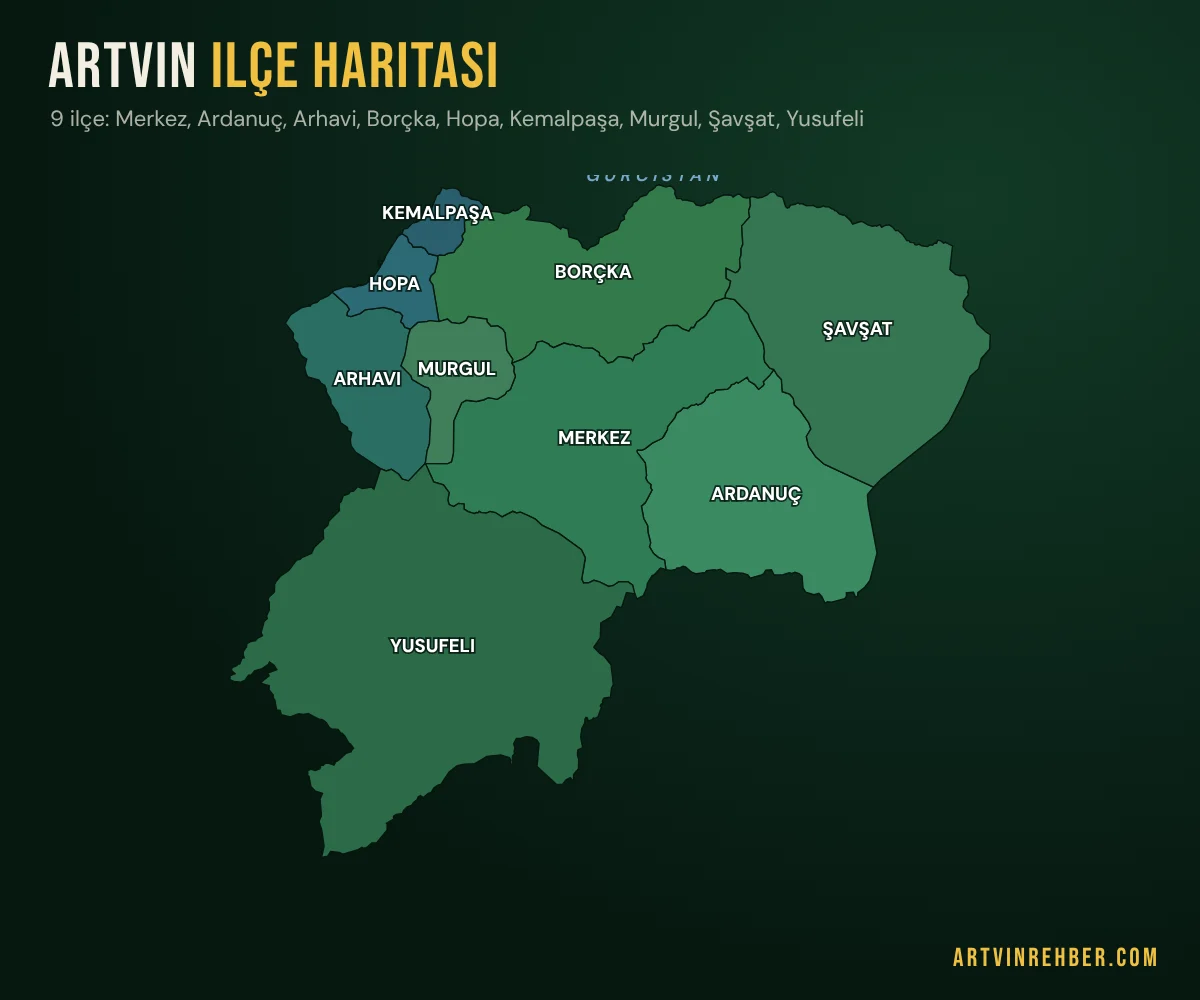
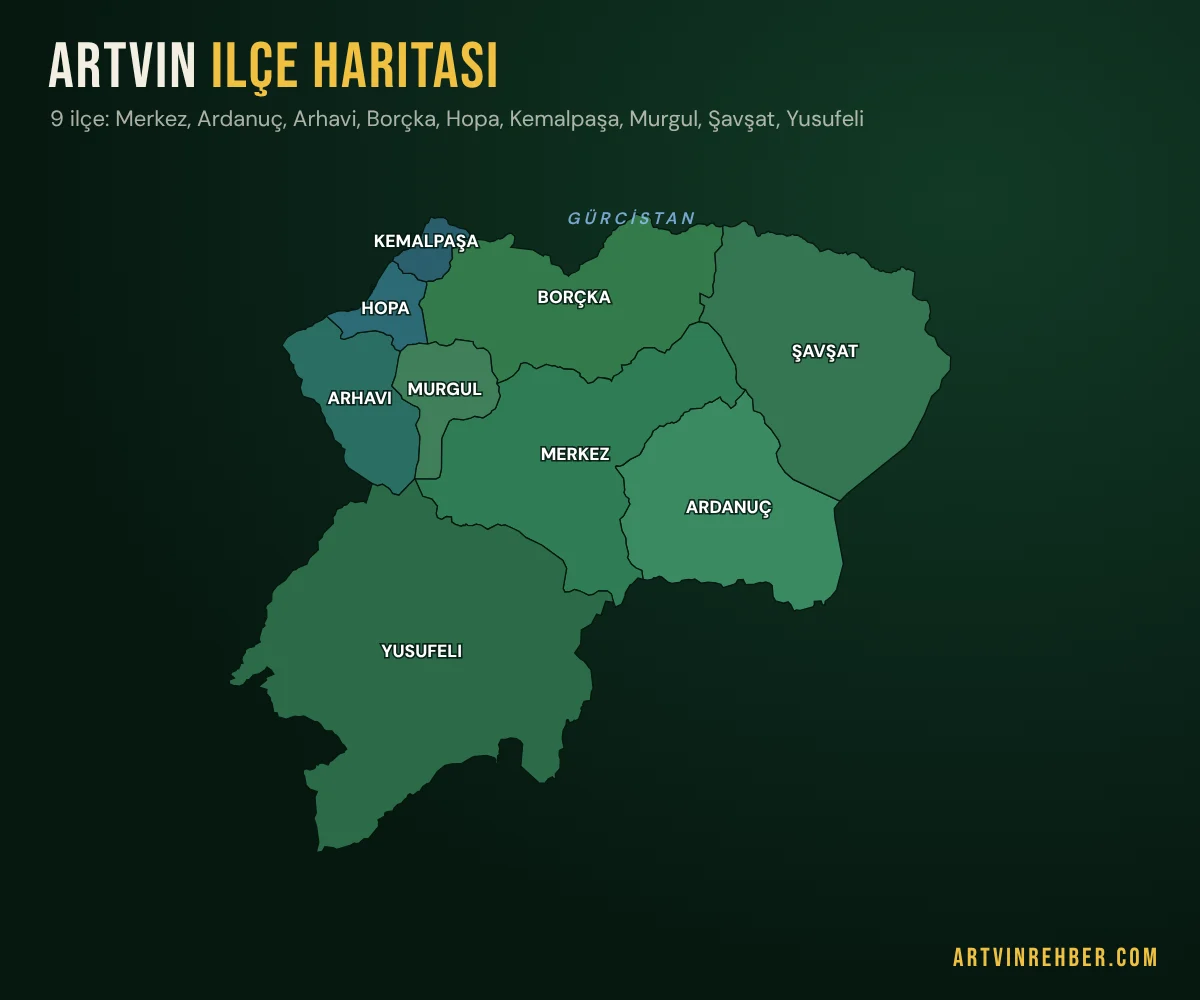
Ana sayfa Şehir Bilgileri: yeni ilçe haritası ve Türkiye'de Artvin görselleri (interaktif haritaya bağlantılı); ilçe haritasında Gürcistan yazısı düzeltildi
Claude-Session: https://claude.ai/code/session_01VwtmkZQx667P7d6nQgoY1q

diff --git a/artvin-harita.html b/artvin-harita.html
@@ -219,7 +219,7 @@ footer a{color:var(--altin)}
     <p class="alt">Artvin'in 9 ilçesi. Bir ilçeye dokun: nüfusu, merkeze uzaklığı, dolmuş ücreti ve gezilecek yerleri açılsın.</p>
     <div class="ilce-alan">
       <div>
-        <div class="ilce-svg"><svg viewBox="0 0 800 710" role="group" aria-label="Artvin ilçe haritası"><path d="M568.1,199.5 564.0,205.3 557.2,212.0 557.9,214.8 556.9,216.2 552.4,219.9 548.5,215.0 542.6,211.4 540.7,207.4 531.5,213.3 529.6,212.5 526.7,214.6 524.5,214.9 523.6,217.0 520.5,219.7 509.3,220.3 506.7,223.0 502.6,223.9 500.8,225.4 500.2,227.5 498.5,228.2 496.8,231.9 493.5,234.5 490.1,235.8 488.6,234.6 486.9,235.8 483.5,236.1 479.2,239.4 475.2,238.6 472.8,241.4 468.3,244.1 466.5,249.0 459.0,258.3 458.9,261.0 455.3,268.1 453.6,270.0 448.5,272.5 443.4,275.0 435.8,280.9 432.3,282.3 428.4,281.9 427.6,282.9 427.9,284.4 436.2,295.4 437.5,308.1 436.6,310.8 438.7,314.8 442.1,317.6 441.6,320.3 443.1,323.2 436.2,336.2 432.2,339.6 434.6,352.3 438.6,359.6 439.0,366.6 441.7,377.2 440.5,381.2 444.7,388.2 449.8,392.4 456.0,395.1 457.4,404.8 462.4,405.6 467.5,404.4 468.8,403.0 471.4,403.1 474.7,401.3 477.5,402.0 483.8,407.4 488.4,409.0 497.8,407.6 499.1,405.9 506.6,404.7 509.7,405.3 513.3,404.3 520.0,408.7 527.4,407.8 535.9,408.4 541.3,410.1 544.0,413.6 555.5,410.1 557.6,409.0 559.7,405.3 565.6,404.9 568.3,410.3 577.6,409.9 583.9,408.0 586.5,408.6 589.7,407.5 594.0,408.8 597.0,411.3 598.0,423.4 600.6,427.9 609.4,430.5 614.2,429.0 617.3,432.4 620.6,439.2 622.9,437.7 627.3,438.2 640.9,434.4 642.5,432.0 642.4,428.4 649.8,428.0 651.4,432.1 653.8,432.6 654.2,428.4 660.7,423.4 666.5,416.0 673.9,387.7 664.8,339.1 664.0,328.0 670.3,320.2 619.7,296.6 611.0,289.0 603.7,278.4 601.4,268.2 606.0,260.5 603.8,254.1 595.4,242.1 589.2,236.0 588.0,229.0 584.3,224.8 576.8,222.3 575.8,209.7 571.3,204.9 568.1,199.5Z" data-ad="Ardanuç" style="--f:#3b8a63" tabindex="0" role="button" aria-label="Ardanuç ilçesi"><title>Ardanuç</title></path><path d="M210.6,295.7 212.4,283.0 214.8,275.7 216.2,250.3 211.7,237.5 215.8,229.4 216.0,221.7 213.6,218.3 209.1,216.7 196.9,209.5 195.9,205.9 185.7,195.6 190.8,181.2 193.2,164.4 195.3,158.2 189.5,156.0 187.9,152.7 185.4,150.5 187.4,144.5 184.4,141.0 180.0,140.3 176.8,138.2 167.9,135.8 148.8,138.3 143.7,142.1 134.2,145.2 130.3,144.2 130.7,141.0 132.8,137.9 130.4,133.9 115.1,120.3 110.5,124.3 102.6,127.7 99.6,130.6 94.7,132.0 92.3,134.2 91.5,133.6 92.2,134.4 90.2,134.5 91.3,132.8 89.8,134.6 83.4,136.3 72.5,143.2 67.1,151.9 75.4,162.5 74.9,167.5 78.2,171.9 79.7,172.9 79.8,177.3 79.1,178.6 80.5,178.1 82.5,183.4 84.8,186.3 89.0,188.7 86.8,197.5 88.6,204.5 90.2,207.0 101.6,210.4 103.5,213.4 107.5,215.9 109.2,220.4 109.0,222.5 113.5,230.5 113.9,234.6 120.8,244.4 123.8,254.2 130.7,259.0 131.4,262.1 135.1,264.2 133.7,271.6 134.5,277.7 139.0,284.2 164.6,301.2 170.5,303.5 175.7,301.8 183.1,306.7 186.9,312.0 193.4,313.7 210.6,295.7Z" data-ad="Arhavi" style="--f:#2a6f63" tabindex="0" role="button" aria-label="Arhavi ilçesi"><title>Arhavi</title></path><path d="M446.3,12.6 443.8,14.9 440.2,16.6 437.5,20.5 431.2,22.3 427.5,26.6 423.8,28.0 423.1,31.4 418.2,35.3 416.2,39.4 413.7,42.0 414.7,42.8 414.8,45.5 411.1,47.7 407.7,55.8 394.3,61.8 391.9,63.8 389.3,64.2 388.1,70.0 383.8,72.7 379.8,73.9 376.6,77.0 375.8,75.7 371.9,74.4 370.4,70.2 367.1,66.2 358.2,63.6 356.8,55.1 350.9,53.4 349.5,55.4 338.5,48.5 314.3,45.7 317.7,41.7 318.8,35.4 318.3,33.5 314.7,30.4 310.6,31.6 305.5,35.8 302.7,36.9 300.7,36.2 296.7,38.9 291.6,39.9 286.3,37.9 275.3,37.0 272.6,35.3 271.5,33.0 267.7,36.9 264.6,36.5 260.3,39.2 258.0,43.6 250.6,47.3 251.0,58.2 248.0,62.4 249.3,66.2 246.9,71.1 241.8,76.0 239.8,79.3 234.2,80.1 230.1,82.4 225.3,82.1 223.2,83.0 223.4,86.6 220.3,100.0 216.4,103.3 214.9,107.8 218.3,112.8 224.6,150.4 233.3,147.8 237.5,151.3 245.1,152.4 249.3,151.3 252.3,149.2 254.7,145.2 273.6,147.8 274.0,150.8 277.9,155.2 285.0,154.8 290.0,158.2 292.3,162.0 294.2,180.0 300.2,188.8 299.1,193.2 310.3,188.8 317.0,184.7 323.0,178.4 325.2,171.7 330.6,170.4 337.2,173.5 338.3,175.1 342.1,177.1 352.9,172.4 359.2,174.1 361.7,173.7 365.5,175.8 367.7,175.1 371.7,177.3 382.0,177.7 389.1,182.1 389.2,185.3 393.4,187.7 397.9,193.1 403.2,191.5 408.6,186.4 418.0,187.2 421.6,188.4 423.3,190.6 425.6,185.1 430.3,183.0 435.4,178.9 434.1,173.2 438.7,173.0 444.3,171.3 444.7,168.7 448.2,166.1 451.9,158.7 456.0,156.0 458.4,154.5 469.4,154.2 474.3,157.8 481.0,160.2 483.3,156.4 485.9,156.6 489.0,151.0 498.2,144.1 507.7,129.9 518.3,126.1 518.4,122.3 522.3,115.3 523.8,108.9 519.2,106.0 519.1,95.7 528.5,100.3 531.2,98.9 533.6,95.0 532.9,86.4 534.4,82.0 534.5,75.5 536.2,71.1 535.1,52.2 543.2,43.0 542.1,36.9 544.0,31.4 543.5,23.2 539.9,23.7 536.3,22.8 533.2,19.7 530.8,19.6 526.3,22.6 524.4,20.8 517.1,20.3 506.6,24.8 505.5,26.9 502.6,28.7 499.2,28.7 497.7,30.5 493.3,31.8 488.3,30.7 486.0,27.5 477.9,25.7 474.2,25.8 473.1,24.3 468.5,24.1 466.4,19.1 466.7,15.6 463.3,11.8 460.7,11.4 457.1,12.4 450.7,10.0 447.4,10.9 446.3,12.6Z" data-ad="Borçka" style="--f:#347a4b" tabindex="0" role="button" aria-label="Borçka ilçesi"><title>Borçka</title></path><path d="M170.7,81.6 168.2,87.5 167.4,88.4 164.8,87.8 167.0,89.1 166.1,91.2 164.5,91.0 165.3,91.9 164.4,94.3 163.6,93.5 164.5,92.1 163.5,91.2 163.4,93.1 162.0,90.6 164.5,84.2 161.8,90.8 163.7,95.3 157.7,104.1 149.7,112.0 148.7,112.2 149.0,111.5 148.2,112.5 144.8,113.5 144.2,112.2 144.4,113.2 142.6,113.7 141.7,113.6 142.1,112.3 144.9,111.2 142.4,111.8 141.4,114.0 137.9,115.2 136.0,114.8 136.5,114.1 127.3,114.8 117.6,118.2 115.2,119.9 130.4,133.9 132.8,137.9 130.7,141.0 130.3,144.2 134.2,145.2 143.7,142.1 148.8,138.3 167.9,135.8 176.8,138.2 180.0,140.3 184.4,141.0 187.4,144.5 185.4,150.5 187.9,152.7 189.5,156.0 195.3,158.2 203.0,151.2 212.2,150.4 214.8,149.4 224.6,150.4 218.3,112.8 214.9,107.8 216.4,103.3 220.3,100.0 223.4,86.6 223.2,83.0 214.0,80.8 210.2,75.5 206.5,73.9 198.0,73.8 196.7,71.1 193.5,68.6 192.4,63.8 186.7,60.3 182.4,63.1 170.7,81.6Z" data-ad="Hopa" style="--f:#2c6a75" tabindex="0" role="button" aria-label="Hopa ilçesi"><title>Hopa</title></path><path d="M235.9,13.5 232.0,14.5 227.8,12.8 225.3,19.0 222.3,20.7 216.9,34.8 214.3,40.1 213.2,40.5 213.6,39.3 211.0,41.8 207.9,43.1 203.8,47.7 199.6,48.9 198.8,48.3 192.2,54.5 188.2,55.6 186.7,60.3 192.4,63.8 193.5,68.6 196.7,71.1 198.0,73.8 206.5,73.9 210.2,75.5 214.0,80.8 223.2,83.0 225.3,82.1 230.1,82.4 234.2,80.1 239.8,79.3 241.8,76.0 246.9,71.1 249.3,66.2 248.0,62.4 251.0,58.2 250.6,47.3 258.0,43.6 260.3,39.2 264.6,36.5 267.7,36.9 271.5,33.0 266.0,26.3 257.5,24.6 254.3,22.5 248.3,21.3 246.8,19.9 246.1,16.6 243.5,14.4 241.1,13.4 235.9,13.5Z" data-ad="Kemalpaşa" style="--f:#2a5f6e" tabindex="0" role="button" aria-label="Kemalpaşa ilçesi"><title>Kemalpaşa</title></path><path d="M468.2,244.3 472.8,241.4 475.2,238.6 479.2,239.4 483.5,236.1 486.9,235.8 488.6,234.6 490.1,235.8 493.5,234.5 496.8,231.9 498.5,228.2 500.5,227.1 500.8,225.4 502.6,223.9 506.7,223.0 508.7,220.5 520.5,219.7 523.6,217.0 524.5,214.9 526.7,214.6 529.6,212.5 531.5,213.3 540.7,207.4 542.6,211.4 548.5,215.0 552.4,219.9 556.9,216.2 557.9,214.8 557.2,212.0 564.0,205.3 568.1,199.5 563.9,198.1 558.7,191.8 557.9,186.9 558.4,180.5 557.2,173.0 543.4,147.9 541.8,142.7 527.9,127.9 518.3,126.1 507.7,129.9 498.2,144.1 489.0,151.0 485.9,156.6 483.3,156.4 481.0,160.2 474.3,157.8 469.4,154.2 458.4,154.5 451.9,158.7 448.2,166.1 444.7,168.7 444.3,171.3 438.7,173.0 434.1,173.2 435.4,178.9 430.3,183.0 425.6,185.1 423.3,190.6 421.6,188.4 411.5,186.6 408.6,186.4 403.2,191.5 397.9,193.1 393.4,187.7 389.2,185.3 389.1,182.1 382.0,177.7 371.7,177.3 367.7,175.1 365.5,175.8 361.7,173.7 359.2,174.1 352.9,172.4 342.1,177.1 338.3,175.1 337.2,173.5 330.6,170.4 328.4,170.6 325.2,171.7 323.0,178.4 317.0,184.7 310.3,188.8 299.1,193.2 301.7,196.5 301.3,201.6 303.0,206.4 297.8,220.0 293.9,222.3 292.6,225.0 284.4,230.1 275.2,228.4 270.7,230.5 263.0,232.3 252.5,231.0 247.8,233.8 239.7,252.4 239.4,285.2 237.4,294.1 233.5,296.0 210.6,295.7 219.2,314.9 229.2,317.9 235.0,325.7 233.7,333.5 235.0,338.0 239.6,340.1 244.7,336.8 250.3,337.5 250.4,342.6 254.5,345.2 261.0,347.3 262.8,346.2 264.9,346.5 265.8,345.1 268.0,346.3 273.3,346.7 277.0,345.1 282.3,346.2 289.3,350.7 300.3,345.0 304.1,346.6 308.1,345.8 323.5,353.0 330.5,359.4 347.7,367.6 370.7,384.2 374.7,392.7 371.0,414.5 372.9,418.4 378.1,418.2 383.4,415.7 389.2,417.3 398.7,422.0 403.5,421.0 409.2,417.1 418.7,417.3 423.2,420.6 424.8,427.9 427.7,434.8 434.2,431.3 437.9,422.8 438.2,419.3 443.2,410.9 445.5,409.9 451.8,403.1 457.4,404.8 456.0,395.1 449.8,392.4 444.7,388.2 440.5,381.2 441.7,377.2 439.0,366.6 438.6,359.6 434.6,352.3 432.2,339.6 436.2,336.2 443.1,323.2 441.6,320.3 442.1,317.6 438.7,314.8 436.6,310.8 437.5,308.1 436.2,295.4 427.9,284.4 427.6,282.9 428.4,281.9 432.3,282.3 435.8,280.9 443.4,275.0 453.6,270.0 458.9,261.0 459.0,258.3 466.5,249.0 468.2,244.3Z" data-ad="Merkez" style="--f:#2f7d55" tabindex="0" role="button" aria-label="Merkez ilçesi"><title>Merkez</title></path><path d="M299.1,193.2 300.2,188.8 294.2,180.0 292.3,162.0 290.0,158.2 285.0,154.8 277.9,155.2 274.0,150.8 273.6,147.8 254.7,145.2 252.3,149.2 249.3,151.3 245.1,152.4 237.5,151.3 233.3,147.8 224.6,150.4 214.8,149.4 212.2,150.4 203.0,151.2 195.3,158.2 193.2,164.4 189.6,185.3 185.7,195.6 195.9,205.9 196.9,209.5 209.1,216.7 213.6,218.3 216.0,221.7 215.8,229.4 211.7,237.5 216.2,250.3 214.8,275.7 212.4,283.0 210.6,295.7 233.5,296.0 237.4,294.1 239.4,285.2 239.7,252.4 247.8,233.8 252.5,231.0 263.0,232.3 270.7,230.5 275.2,228.4 284.4,230.1 292.6,225.0 293.9,222.3 297.8,220.0 303.0,206.4 301.3,201.6 301.7,196.5 299.1,193.2Z" data-ad="Murgul" style="--f:#3f7f5a" tabindex="0" role="button" aria-label="Murgul ilçesi"><title>Murgul</title></path><path d="M400.5,535.5 401.5,526.5 403.4,522.6 401.1,502.4 394.0,493.6 389.2,490.4 383.4,484.3 390.0,474.7 390.6,459.3 401.6,453.0 407.2,442.3 411.9,443.8 416.9,428.3 425.5,429.7 423.2,420.6 418.7,417.3 409.2,417.1 403.5,421.0 398.7,422.0 389.2,417.3 383.4,415.7 378.1,418.2 372.9,418.4 371.0,414.5 374.7,392.7 370.7,384.2 347.7,367.6 330.5,359.4 323.5,353.0 316.9,349.7 308.1,345.8 304.1,346.6 300.3,345.0 289.3,350.7 282.3,346.2 277.0,345.1 273.3,346.7 268.0,346.3 265.8,345.1 264.9,346.5 262.8,346.2 261.0,347.3 254.5,345.2 250.4,342.6 250.3,337.5 244.7,336.8 239.6,340.1 235.0,338.0 233.7,333.5 235.0,325.7 229.2,317.9 219.2,314.9 210.6,295.7 193.4,313.7 186.9,312.0 183.1,306.7 175.7,301.8 170.5,303.5 164.6,301.2 157.9,322.2 155.2,320.2 146.4,321.7 140.9,319.7 137.0,324.2 133.8,324.7 131.9,327.0 126.3,329.2 124.3,335.1 122.1,337.0 122.6,344.1 111.7,354.9 110.7,359.0 105.8,363.6 106.3,372.8 96.8,381.7 93.8,388.3 84.3,392.1 82.0,394.3 78.6,394.9 70.5,405.7 61.9,411.5 57.6,416.9 56.0,420.1 55.9,427.7 50.1,433.0 49.3,435.9 50.5,437.9 50.6,446.0 47.8,452.2 48.6,455.0 45.3,457.7 42.2,469.4 43.6,472.5 38.0,475.4 36.6,477.6 31.1,478.6 27.6,480.7 27.3,483.9 24.1,488.5 23.7,491.8 24.9,495.2 21.7,495.9 22.2,496.8 20.3,501.5 18.7,501.3 17.4,503.1 12.6,505.2 11.5,507.9 15.6,511.5 10.4,513.4 10.0,517.5 14.3,519.3 21.0,520.1 25.6,518.3 29.2,513.1 31.7,513.1 35.8,508.2 42.9,506.5 49.2,502.1 50.8,499.4 55.5,502.8 58.3,507.3 49.1,510.9 50.4,513.7 42.1,520.2 43.3,521.6 50.7,523.8 50.2,527.9 54.6,533.3 54.5,535.9 56.3,538.7 58.1,548.6 61.8,549.1 62.9,553.5 72.0,555.9 80.7,552.5 85.8,553.3 90.5,552.3 101.7,558.2 105.2,558.6 109.1,561.7 112.2,566.7 114.3,568.2 121.0,568.6 123.8,572.3 125.5,572.7 128.5,576.0 131.9,582.5 134.0,583.7 137.0,588.2 134.6,590.4 134.5,591.6 129.1,593.3 121.1,600.8 118.8,601.7 116.9,605.3 110.9,603.1 107.4,603.7 105.9,605.4 102.9,605.1 103.3,607.1 102.2,609.2 97.4,610.9 93.4,609.4 90.1,611.0 90.0,615.9 91.3,616.7 93.2,627.1 97.3,631.6 105.2,634.2 102.7,640.1 104.1,657.4 101.5,662.7 104.4,671.7 106.8,688.9 104.1,699.9 110.4,698.7 113.4,693.8 122.3,694.7 126.1,696.5 140.7,692.3 145.4,689.6 146.7,690.4 150.1,689.9 155.8,685.0 160.8,684.7 171.3,672.0 171.5,666.2 170.7,664.8 178.1,660.5 177.9,657.5 181.0,655.7 187.0,654.9 188.3,651.8 192.0,648.1 196.5,646.5 198.6,643.4 202.1,640.7 203.2,637.8 205.6,636.5 208.5,638.5 213.9,634.1 216.2,633.6 219.3,628.7 223.4,625.8 226.5,625.0 235.0,612.3 243.3,605.8 250.6,604.3 261.4,603.7 273.8,596.4 288.0,594.9 296.8,597.5 298.3,600.0 297.7,602.4 298.9,604.6 299.9,604.3 300.0,595.8 302.2,593.4 301.6,591.3 302.5,587.8 301.2,583.4 304.0,577.8 309.0,577.7 314.0,576.2 320.4,576.8 325.0,579.8 327.2,582.9 325.2,606.6 345.0,624.9 351.3,625.0 354.7,620.6 359.2,618.1 362.6,621.9 362.6,614.9 367.5,609.3 367.9,599.2 366.5,594.9 367.0,589.7 372.0,587.2 369.9,577.0 371.0,567.9 374.2,561.9 374.4,557.9 375.3,556.3 376.5,556.5 377.8,559.8 381.7,558.5 382.9,556.8 384.0,557.6 387.7,555.7 391.2,545.9 390.1,544.7 390.7,542.9 392.5,541.7 392.2,539.7 393.6,536.5 400.5,535.5Z" data-ad="Yusufeli" style="--f:#2b6b47" tabindex="0" role="button" aria-label="Yusufeli ilçesi"><title>Yusufeli</title></path><path d="M768.2,115.6 767.0,107.5 763.9,102.8 758.9,103.3 754.2,101.9 748.6,96.8 751.3,72.7 744.0,69.1 742.2,69.9 739.0,67.4 736.2,66.7 734.9,70.1 732.9,69.7 730.8,72.0 728.2,71.5 725.9,73.4 719.6,72.6 716.9,70.9 714.7,71.8 712.6,71.4 711.7,69.4 707.8,69.1 707.0,67.5 704.5,67.2 700.1,60.9 695.3,56.8 692.8,57.0 689.8,53.4 686.4,51.2 682.3,51.7 678.6,53.8 676.6,50.6 673.5,52.6 672.5,51.8 669.3,52.6 664.5,51.1 659.0,47.8 657.0,47.7 648.8,50.4 646.7,46.8 640.1,40.6 639.1,41.2 635.1,40.0 631.9,36.8 630.4,36.6 629.4,34.9 627.3,34.6 624.8,32.7 620.8,32.7 619.0,31.6 616.1,33.0 612.8,33.5 608.0,31.2 601.9,31.6 596.6,29.4 594.6,29.8 593.0,28.4 589.4,30.3 585.2,30.8 583.7,33.3 582.0,34.0 580.1,32.3 577.1,22.8 571.7,21.1 569.7,18.4 567.4,17.1 563.9,18.0 561.2,20.4 555.9,23.0 551.6,23.6 545.3,21.8 543.5,23.2 544.0,31.4 542.1,36.9 543.2,43.0 535.1,52.2 536.2,71.1 534.5,75.5 534.4,82.0 532.9,86.4 533.6,95.0 531.2,98.9 528.5,100.3 519.1,95.7 519.2,106.0 523.8,108.9 522.3,115.3 518.4,122.3 518.3,126.1 527.9,127.9 541.8,142.7 543.4,147.9 557.2,173.0 558.4,180.5 557.9,186.9 558.7,191.8 563.9,198.1 568.1,199.5 571.3,204.9 575.8,209.7 576.8,222.3 584.3,224.8 588.0,229.0 589.2,236.0 595.4,242.1 603.8,254.1 606.0,260.5 601.4,268.2 603.7,278.4 611.0,289.0 619.7,296.6 670.3,320.2 678.3,311.8 741.3,261.3 747.4,253.9 762.0,225.5 769.5,206.5 778.2,198.6 780.7,188.4 789.4,178.5 790.0,163.8 785.9,161.3 776.4,152.2 772.8,143.0 765.9,139.6 762.1,135.0 763.1,128.8 767.6,122.7 766.9,119.9 768.2,115.6Z" data-ad="Şavşat" style="--f:#357552" tabindex="0" role="button" aria-label="Şavşat ilçesi"><title>Şavşat</title></path><text data-ad="Ardanuç" x="550" y="333">ARDANUÇ</text><text data-ad="Arhavi" x="151" y="215">ARHAVI</text><text data-ad="Borçka" x="383" y="106">BORÇKA</text><text data-ad="Hopa" x="179" y="118">HOPA</text><text data-ad="Kemalpaşa" x="223" y="45">KEMALPAŞA</text><text data-ad="Merkez" x="384" y="276">MERKEZ</text><text data-ad="Murgul" x="243" y="205">MURGUL</text><text data-ad="Yusufeli" x="218" y="489">YUSUFELI</text><text data-ad="Şavşat" x="654" y="164">ŞAVŞAT</text><text class="gur" x="445" y="6">GÜRCİSTAN</text></svg></div>
+        <div class="ilce-svg"><svg viewBox="0 0 800 710" role="group" aria-label="Artvin ilçe haritası"><path d="M568.1,199.5 564.0,205.3 557.2,212.0 557.9,214.8 556.9,216.2 552.4,219.9 548.5,215.0 542.6,211.4 540.7,207.4 531.5,213.3 529.6,212.5 526.7,214.6 524.5,214.9 523.6,217.0 520.5,219.7 509.3,220.3 506.7,223.0 502.6,223.9 500.8,225.4 500.2,227.5 498.5,228.2 496.8,231.9 493.5,234.5 490.1,235.8 488.6,234.6 486.9,235.8 483.5,236.1 479.2,239.4 475.2,238.6 472.8,241.4 468.3,244.1 466.5,249.0 459.0,258.3 458.9,261.0 455.3,268.1 453.6,270.0 448.5,272.5 443.4,275.0 435.8,280.9 432.3,282.3 428.4,281.9 427.6,282.9 427.9,284.4 436.2,295.4 437.5,308.1 436.6,310.8 438.7,314.8 442.1,317.6 441.6,320.3 443.1,323.2 436.2,336.2 432.2,339.6 434.6,352.3 438.6,359.6 439.0,366.6 441.7,377.2 440.5,381.2 444.7,388.2 449.8,392.4 456.0,395.1 457.4,404.8 462.4,405.6 467.5,404.4 468.8,403.0 471.4,403.1 474.7,401.3 477.5,402.0 483.8,407.4 488.4,409.0 497.8,407.6 499.1,405.9 506.6,404.7 509.7,405.3 513.3,404.3 520.0,408.7 527.4,407.8 535.9,408.4 541.3,410.1 544.0,413.6 555.5,410.1 557.6,409.0 559.7,405.3 565.6,404.9 568.3,410.3 577.6,409.9 583.9,408.0 586.5,408.6 589.7,407.5 594.0,408.8 597.0,411.3 598.0,423.4 600.6,427.9 609.4,430.5 614.2,429.0 617.3,432.4 620.6,439.2 622.9,437.7 627.3,438.2 640.9,434.4 642.5,432.0 642.4,428.4 649.8,428.0 651.4,432.1 653.8,432.6 654.2,428.4 660.7,423.4 666.5,416.0 673.9,387.7 664.8,339.1 664.0,328.0 670.3,320.2 619.7,296.6 611.0,289.0 603.7,278.4 601.4,268.2 606.0,260.5 603.8,254.1 595.4,242.1 589.2,236.0 588.0,229.0 584.3,224.8 576.8,222.3 575.8,209.7 571.3,204.9 568.1,199.5Z" data-ad="Ardanuç" style="--f:#3b8a63" tabindex="0" role="button" aria-label="Ardanuç ilçesi"><title>Ardanuç</title></path><path d="M210.6,295.7 212.4,283.0 214.8,275.7 216.2,250.3 211.7,237.5 215.8,229.4 216.0,221.7 213.6,218.3 209.1,216.7 196.9,209.5 195.9,205.9 185.7,195.6 190.8,181.2 193.2,164.4 195.3,158.2 189.5,156.0 187.9,152.7 185.4,150.5 187.4,144.5 184.4,141.0 180.0,140.3 176.8,138.2 167.9,135.8 148.8,138.3 143.7,142.1 134.2,145.2 130.3,144.2 130.7,141.0 132.8,137.9 130.4,133.9 115.1,120.3 110.5,124.3 102.6,127.7 99.6,130.6 94.7,132.0 92.3,134.2 91.5,133.6 92.2,134.4 90.2,134.5 91.3,132.8 89.8,134.6 83.4,136.3 72.5,143.2 67.1,151.9 75.4,162.5 74.9,167.5 78.2,171.9 79.7,172.9 79.8,177.3 79.1,178.6 80.5,178.1 82.5,183.4 84.8,186.3 89.0,188.7 86.8,197.5 88.6,204.5 90.2,207.0 101.6,210.4 103.5,213.4 107.5,215.9 109.2,220.4 109.0,222.5 113.5,230.5 113.9,234.6 120.8,244.4 123.8,254.2 130.7,259.0 131.4,262.1 135.1,264.2 133.7,271.6 134.5,277.7 139.0,284.2 164.6,301.2 170.5,303.5 175.7,301.8 183.1,306.7 186.9,312.0 193.4,313.7 210.6,295.7Z" data-ad="Arhavi" style="--f:#2a6f63" tabindex="0" role="button" aria-label="Arhavi ilçesi"><title>Arhavi</title></path><path d="M446.3,12.6 443.8,14.9 440.2,16.6 437.5,20.5 431.2,22.3 427.5,26.6 423.8,28.0 423.1,31.4 418.2,35.3 416.2,39.4 413.7,42.0 414.7,42.8 414.8,45.5 411.1,47.7 407.7,55.8 394.3,61.8 391.9,63.8 389.3,64.2 388.1,70.0 383.8,72.7 379.8,73.9 376.6,77.0 375.8,75.7 371.9,74.4 370.4,70.2 367.1,66.2 358.2,63.6 356.8,55.1 350.9,53.4 349.5,55.4 338.5,48.5 314.3,45.7 317.7,41.7 318.8,35.4 318.3,33.5 314.7,30.4 310.6,31.6 305.5,35.8 302.7,36.9 300.7,36.2 296.7,38.9 291.6,39.9 286.3,37.9 275.3,37.0 272.6,35.3 271.5,33.0 267.7,36.9 264.6,36.5 260.3,39.2 258.0,43.6 250.6,47.3 251.0,58.2 248.0,62.4 249.3,66.2 246.9,71.1 241.8,76.0 239.8,79.3 234.2,80.1 230.1,82.4 225.3,82.1 223.2,83.0 223.4,86.6 220.3,100.0 216.4,103.3 214.9,107.8 218.3,112.8 224.6,150.4 233.3,147.8 237.5,151.3 245.1,152.4 249.3,151.3 252.3,149.2 254.7,145.2 273.6,147.8 274.0,150.8 277.9,155.2 285.0,154.8 290.0,158.2 292.3,162.0 294.2,180.0 300.2,188.8 299.1,193.2 310.3,188.8 317.0,184.7 323.0,178.4 325.2,171.7 330.6,170.4 337.2,173.5 338.3,175.1 342.1,177.1 352.9,172.4 359.2,174.1 361.7,173.7 365.5,175.8 367.7,175.1 371.7,177.3 382.0,177.7 389.1,182.1 389.2,185.3 393.4,187.7 397.9,193.1 403.2,191.5 408.6,186.4 418.0,187.2 421.6,188.4 423.3,190.6 425.6,185.1 430.3,183.0 435.4,178.9 434.1,173.2 438.7,173.0 444.3,171.3 444.7,168.7 448.2,166.1 451.9,158.7 456.0,156.0 458.4,154.5 469.4,154.2 474.3,157.8 481.0,160.2 483.3,156.4 485.9,156.6 489.0,151.0 498.2,144.1 507.7,129.9 518.3,126.1 518.4,122.3 522.3,115.3 523.8,108.9 519.2,106.0 519.1,95.7 528.5,100.3 531.2,98.9 533.6,95.0 532.9,86.4 534.4,82.0 534.5,75.5 536.2,71.1 535.1,52.2 543.2,43.0 542.1,36.9 544.0,31.4 543.5,23.2 539.9,23.7 536.3,22.8 533.2,19.7 530.8,19.6 526.3,22.6 524.4,20.8 517.1,20.3 506.6,24.8 505.5,26.9 502.6,28.7 499.2,28.7 497.7,30.5 493.3,31.8 488.3,30.7 486.0,27.5 477.9,25.7 474.2,25.8 473.1,24.3 468.5,24.1 466.4,19.1 466.7,15.6 463.3,11.8 460.7,11.4 457.1,12.4 450.7,10.0 447.4,10.9 446.3,12.6Z" data-ad="Borçka" style="--f:#347a4b" tabindex="0" role="button" aria-label="Borçka ilçesi"><title>Borçka</title></path><path d="M170.7,81.6 168.2,87.5 167.4,88.4 164.8,87.8 167.0,89.1 166.1,91.2 164.5,91.0 165.3,91.9 164.4,94.3 163.6,93.5 164.5,92.1 163.5,91.2 163.4,93.1 162.0,90.6 164.5,84.2 161.8,90.8 163.7,95.3 157.7,104.1 149.7,112.0 148.7,112.2 149.0,111.5 148.2,112.5 144.8,113.5 144.2,112.2 144.4,113.2 142.6,113.7 141.7,113.6 142.1,112.3 144.9,111.2 142.4,111.8 141.4,114.0 137.9,115.2 136.0,114.8 136.5,114.1 127.3,114.8 117.6,118.2 115.2,119.9 130.4,133.9 132.8,137.9 130.7,141.0 130.3,144.2 134.2,145.2 143.7,142.1 148.8,138.3 167.9,135.8 176.8,138.2 180.0,140.3 184.4,141.0 187.4,144.5 185.4,150.5 187.9,152.7 189.5,156.0 195.3,158.2 203.0,151.2 212.2,150.4 214.8,149.4 224.6,150.4 218.3,112.8 214.9,107.8 216.4,103.3 220.3,100.0 223.4,86.6 223.2,83.0 214.0,80.8 210.2,75.5 206.5,73.9 198.0,73.8 196.7,71.1 193.5,68.6 192.4,63.8 186.7,60.3 182.4,63.1 170.7,81.6Z" data-ad="Hopa" style="--f:#2c6a75" tabindex="0" role="button" aria-label="Hopa ilçesi"><title>Hopa</title></path><path d="M235.9,13.5 232.0,14.5 227.8,12.8 225.3,19.0 222.3,20.7 216.9,34.8 214.3,40.1 213.2,40.5 213.6,39.3 211.0,41.8 207.9,43.1 203.8,47.7 199.6,48.9 198.8,48.3 192.2,54.5 188.2,55.6 186.7,60.3 192.4,63.8 193.5,68.6 196.7,71.1 198.0,73.8 206.5,73.9 210.2,75.5 214.0,80.8 223.2,83.0 225.3,82.1 230.1,82.4 234.2,80.1 239.8,79.3 241.8,76.0 246.9,71.1 249.3,66.2 248.0,62.4 251.0,58.2 250.6,47.3 258.0,43.6 260.3,39.2 264.6,36.5 267.7,36.9 271.5,33.0 266.0,26.3 257.5,24.6 254.3,22.5 248.3,21.3 246.8,19.9 246.1,16.6 243.5,14.4 241.1,13.4 235.9,13.5Z" data-ad="Kemalpaşa" style="--f:#2a5f6e" tabindex="0" role="button" aria-label="Kemalpaşa ilçesi"><title>Kemalpaşa</title></path><path d="M468.2,244.3 472.8,241.4 475.2,238.6 479.2,239.4 483.5,236.1 486.9,235.8 488.6,234.6 490.1,235.8 493.5,234.5 496.8,231.9 498.5,228.2 500.5,227.1 500.8,225.4 502.6,223.9 506.7,223.0 508.7,220.5 520.5,219.7 523.6,217.0 524.5,214.9 526.7,214.6 529.6,212.5 531.5,213.3 540.7,207.4 542.6,211.4 548.5,215.0 552.4,219.9 556.9,216.2 557.9,214.8 557.2,212.0 564.0,205.3 568.1,199.5 563.9,198.1 558.7,191.8 557.9,186.9 558.4,180.5 557.2,173.0 543.4,147.9 541.8,142.7 527.9,127.9 518.3,126.1 507.7,129.9 498.2,144.1 489.0,151.0 485.9,156.6 483.3,156.4 481.0,160.2 474.3,157.8 469.4,154.2 458.4,154.5 451.9,158.7 448.2,166.1 444.7,168.7 444.3,171.3 438.7,173.0 434.1,173.2 435.4,178.9 430.3,183.0 425.6,185.1 423.3,190.6 421.6,188.4 411.5,186.6 408.6,186.4 403.2,191.5 397.9,193.1 393.4,187.7 389.2,185.3 389.1,182.1 382.0,177.7 371.7,177.3 367.7,175.1 365.5,175.8 361.7,173.7 359.2,174.1 352.9,172.4 342.1,177.1 338.3,175.1 337.2,173.5 330.6,170.4 328.4,170.6 325.2,171.7 323.0,178.4 317.0,184.7 310.3,188.8 299.1,193.2 301.7,196.5 301.3,201.6 303.0,206.4 297.8,220.0 293.9,222.3 292.6,225.0 284.4,230.1 275.2,228.4 270.7,230.5 263.0,232.3 252.5,231.0 247.8,233.8 239.7,252.4 239.4,285.2 237.4,294.1 233.5,296.0 210.6,295.7 219.2,314.9 229.2,317.9 235.0,325.7 233.7,333.5 235.0,338.0 239.6,340.1 244.7,336.8 250.3,337.5 250.4,342.6 254.5,345.2 261.0,347.3 262.8,346.2 264.9,346.5 265.8,345.1 268.0,346.3 273.3,346.7 277.0,345.1 282.3,346.2 289.3,350.7 300.3,345.0 304.1,346.6 308.1,345.8 323.5,353.0 330.5,359.4 347.7,367.6 370.7,384.2 374.7,392.7 371.0,414.5 372.9,418.4 378.1,418.2 383.4,415.7 389.2,417.3 398.7,422.0 403.5,421.0 409.2,417.1 418.7,417.3 423.2,420.6 424.8,427.9 427.7,434.8 434.2,431.3 437.9,422.8 438.2,419.3 443.2,410.9 445.5,409.9 451.8,403.1 457.4,404.8 456.0,395.1 449.8,392.4 444.7,388.2 440.5,381.2 441.7,377.2 439.0,366.6 438.6,359.6 434.6,352.3 432.2,339.6 436.2,336.2 443.1,323.2 441.6,320.3 442.1,317.6 438.7,314.8 436.6,310.8 437.5,308.1 436.2,295.4 427.9,284.4 427.6,282.9 428.4,281.9 432.3,282.3 435.8,280.9 443.4,275.0 453.6,270.0 458.9,261.0 459.0,258.3 466.5,249.0 468.2,244.3Z" data-ad="Merkez" style="--f:#2f7d55" tabindex="0" role="button" aria-label="Merkez ilçesi"><title>Merkez</title></path><path d="M299.1,193.2 300.2,188.8 294.2,180.0 292.3,162.0 290.0,158.2 285.0,154.8 277.9,155.2 274.0,150.8 273.6,147.8 254.7,145.2 252.3,149.2 249.3,151.3 245.1,152.4 237.5,151.3 233.3,147.8 224.6,150.4 214.8,149.4 212.2,150.4 203.0,151.2 195.3,158.2 193.2,164.4 189.6,185.3 185.7,195.6 195.9,205.9 196.9,209.5 209.1,216.7 213.6,218.3 216.0,221.7 215.8,229.4 211.7,237.5 216.2,250.3 214.8,275.7 212.4,283.0 210.6,295.7 233.5,296.0 237.4,294.1 239.4,285.2 239.7,252.4 247.8,233.8 252.5,231.0 263.0,232.3 270.7,230.5 275.2,228.4 284.4,230.1 292.6,225.0 293.9,222.3 297.8,220.0 303.0,206.4 301.3,201.6 301.7,196.5 299.1,193.2Z" data-ad="Murgul" style="--f:#3f7f5a" tabindex="0" role="button" aria-label="Murgul ilçesi"><title>Murgul</title></path><path d="M400.5,535.5 401.5,526.5 403.4,522.6 401.1,502.4 394.0,493.6 389.2,490.4 383.4,484.3 390.0,474.7 390.6,459.3 401.6,453.0 407.2,442.3 411.9,443.8 416.9,428.3 425.5,429.7 423.2,420.6 418.7,417.3 409.2,417.1 403.5,421.0 398.7,422.0 389.2,417.3 383.4,415.7 378.1,418.2 372.9,418.4 371.0,414.5 374.7,392.7 370.7,384.2 347.7,367.6 330.5,359.4 323.5,353.0 316.9,349.7 308.1,345.8 304.1,346.6 300.3,345.0 289.3,350.7 282.3,346.2 277.0,345.1 273.3,346.7 268.0,346.3 265.8,345.1 264.9,346.5 262.8,346.2 261.0,347.3 254.5,345.2 250.4,342.6 250.3,337.5 244.7,336.8 239.6,340.1 235.0,338.0 233.7,333.5 235.0,325.7 229.2,317.9 219.2,314.9 210.6,295.7 193.4,313.7 186.9,312.0 183.1,306.7 175.7,301.8 170.5,303.5 164.6,301.2 157.9,322.2 155.2,320.2 146.4,321.7 140.9,319.7 137.0,324.2 133.8,324.7 131.9,327.0 126.3,329.2 124.3,335.1 122.1,337.0 122.6,344.1 111.7,354.9 110.7,359.0 105.8,363.6 106.3,372.8 96.8,381.7 93.8,388.3 84.3,392.1 82.0,394.3 78.6,394.9 70.5,405.7 61.9,411.5 57.6,416.9 56.0,420.1 55.9,427.7 50.1,433.0 49.3,435.9 50.5,437.9 50.6,446.0 47.8,452.2 48.6,455.0 45.3,457.7 42.2,469.4 43.6,472.5 38.0,475.4 36.6,477.6 31.1,478.6 27.6,480.7 27.3,483.9 24.1,488.5 23.7,491.8 24.9,495.2 21.7,495.9 22.2,496.8 20.3,501.5 18.7,501.3 17.4,503.1 12.6,505.2 11.5,507.9 15.6,511.5 10.4,513.4 10.0,517.5 14.3,519.3 21.0,520.1 25.6,518.3 29.2,513.1 31.7,513.1 35.8,508.2 42.9,506.5 49.2,502.1 50.8,499.4 55.5,502.8 58.3,507.3 49.1,510.9 50.4,513.7 42.1,520.2 43.3,521.6 50.7,523.8 50.2,527.9 54.6,533.3 54.5,535.9 56.3,538.7 58.1,548.6 61.8,549.1 62.9,553.5 72.0,555.9 80.7,552.5 85.8,553.3 90.5,552.3 101.7,558.2 105.2,558.6 109.1,561.7 112.2,566.7 114.3,568.2 121.0,568.6 123.8,572.3 125.5,572.7 128.5,576.0 131.9,582.5 134.0,583.7 137.0,588.2 134.6,590.4 134.5,591.6 129.1,593.3 121.1,600.8 118.8,601.7 116.9,605.3 110.9,603.1 107.4,603.7 105.9,605.4 102.9,605.1 103.3,607.1 102.2,609.2 97.4,610.9 93.4,609.4 90.1,611.0 90.0,615.9 91.3,616.7 93.2,627.1 97.3,631.6 105.2,634.2 102.7,640.1 104.1,657.4 101.5,662.7 104.4,671.7 106.8,688.9 104.1,699.9 110.4,698.7 113.4,693.8 122.3,694.7 126.1,696.5 140.7,692.3 145.4,689.6 146.7,690.4 150.1,689.9 155.8,685.0 160.8,684.7 171.3,672.0 171.5,666.2 170.7,664.8 178.1,660.5 177.9,657.5 181.0,655.7 187.0,654.9 188.3,651.8 192.0,648.1 196.5,646.5 198.6,643.4 202.1,640.7 203.2,637.8 205.6,636.5 208.5,638.5 213.9,634.1 216.2,633.6 219.3,628.7 223.4,625.8 226.5,625.0 235.0,612.3 243.3,605.8 250.6,604.3 261.4,603.7 273.8,596.4 288.0,594.9 296.8,597.5 298.3,600.0 297.7,602.4 298.9,604.6 299.9,604.3 300.0,595.8 302.2,593.4 301.6,591.3 302.5,587.8 301.2,583.4 304.0,577.8 309.0,577.7 314.0,576.2 320.4,576.8 325.0,579.8 327.2,582.9 325.2,606.6 345.0,624.9 351.3,625.0 354.7,620.6 359.2,618.1 362.6,621.9 362.6,614.9 367.5,609.3 367.9,599.2 366.5,594.9 367.0,589.7 372.0,587.2 369.9,577.0 371.0,567.9 374.2,561.9 374.4,557.9 375.3,556.3 376.5,556.5 377.8,559.8 381.7,558.5 382.9,556.8 384.0,557.6 387.7,555.7 391.2,545.9 390.1,544.7 390.7,542.9 392.5,541.7 392.2,539.7 393.6,536.5 400.5,535.5Z" data-ad="Yusufeli" style="--f:#2b6b47" tabindex="0" role="button" aria-label="Yusufeli ilçesi"><title>Yusufeli</title></path><path d="M768.2,115.6 767.0,107.5 763.9,102.8 758.9,103.3 754.2,101.9 748.6,96.8 751.3,72.7 744.0,69.1 742.2,69.9 739.0,67.4 736.2,66.7 734.9,70.1 732.9,69.7 730.8,72.0 728.2,71.5 725.9,73.4 719.6,72.6 716.9,70.9 714.7,71.8 712.6,71.4 711.7,69.4 707.8,69.1 707.0,67.5 704.5,67.2 700.1,60.9 695.3,56.8 692.8,57.0 689.8,53.4 686.4,51.2 682.3,51.7 678.6,53.8 676.6,50.6 673.5,52.6 672.5,51.8 669.3,52.6 664.5,51.1 659.0,47.8 657.0,47.7 648.8,50.4 646.7,46.8 640.1,40.6 639.1,41.2 635.1,40.0 631.9,36.8 630.4,36.6 629.4,34.9 627.3,34.6 624.8,32.7 620.8,32.7 619.0,31.6 616.1,33.0 612.8,33.5 608.0,31.2 601.9,31.6 596.6,29.4 594.6,29.8 593.0,28.4 589.4,30.3 585.2,30.8 583.7,33.3 582.0,34.0 580.1,32.3 577.1,22.8 571.7,21.1 569.7,18.4 567.4,17.1 563.9,18.0 561.2,20.4 555.9,23.0 551.6,23.6 545.3,21.8 543.5,23.2 544.0,31.4 542.1,36.9 543.2,43.0 535.1,52.2 536.2,71.1 534.5,75.5 534.4,82.0 532.9,86.4 533.6,95.0 531.2,98.9 528.5,100.3 519.1,95.7 519.2,106.0 523.8,108.9 522.3,115.3 518.4,122.3 518.3,126.1 527.9,127.9 541.8,142.7 543.4,147.9 557.2,173.0 558.4,180.5 557.9,186.9 558.7,191.8 563.9,198.1 568.1,199.5 571.3,204.9 575.8,209.7 576.8,222.3 584.3,224.8 588.0,229.0 589.2,236.0 595.4,242.1 603.8,254.1 606.0,260.5 601.4,268.2 603.7,278.4 611.0,289.0 619.7,296.6 670.3,320.2 678.3,311.8 741.3,261.3 747.4,253.9 762.0,225.5 769.5,206.5 778.2,198.6 780.7,188.4 789.4,178.5 790.0,163.8 785.9,161.3 776.4,152.2 772.8,143.0 765.9,139.6 762.1,135.0 763.1,128.8 767.6,122.7 766.9,119.9 768.2,115.6Z" data-ad="Şavşat" style="--f:#357552" tabindex="0" role="button" aria-label="Şavşat ilçesi"><title>Şavşat</title></path><text data-ad="Ardanuç" x="550" y="333">ARDANUÇ</text><text data-ad="Arhavi" x="151" y="215">ARHAVI</text><text data-ad="Borçka" x="383" y="106">BORÇKA</text><text data-ad="Hopa" x="179" y="118">HOPA</text><text data-ad="Kemalpaşa" x="223" y="45">KEMALPAŞA</text><text data-ad="Merkez" x="384" y="276">MERKEZ</text><text data-ad="Murgul" x="243" y="205">MURGUL</text><text data-ad="Yusufeli" x="218" y="489">YUSUFELI</text><text data-ad="Şavşat" x="654" y="164">ŞAVŞAT</text><text class="gur" x="445" y="20">GÜRCİSTAN</text></svg></div>
         <div class="ilce-sec" role="group" aria-label="İlçe seç"><button type="button" data-ad="Merkez" aria-pressed="false">Merkez</button><button type="button" data-ad="Borçka" aria-pressed="false">Borçka</button><button type="button" data-ad="Ardanuç" aria-pressed="false">Ardanuç</button><button type="button" data-ad="Şavşat" aria-pressed="false">Şavşat</button><button type="button" data-ad="Yusufeli" aria-pressed="false">Yusufeli</button><button type="button" data-ad="Murgul" aria-pressed="false">Murgul</button><button type="button" data-ad="Hopa" aria-pressed="false">Hopa</button><button type="button" data-ad="Arhavi" aria-pressed="false">Arhavi</button><button type="button" data-ad="Kemalpaşa" aria-pressed="false">Kemalpaşa</button></div>
       </div>
       <div class="ik" id="ilceKart" aria-live="polite"></div>

diff --git a/index.html b/index.html
@@ -1626,8 +1626,8 @@ async function konumAl() {
     <h2 class="stitle">Artvin Şehir Bilgileri</h2>
     <div style="display:grid;grid-template-columns:minmax(0,1fr) minmax(0,1fr);gap:1rem;margin-top:1.5rem;align-items:start;overflow:hidden">
       <div>
-        <img loading="lazy" decoding="async" src="/img/mg-20260307-111336-1fvdnmzp.webp" alt="Artvin İl Haritası" style="width:100%;border-radius:8px;border:1px solid rgba(255,255,255,.1);margin-bottom:.75rem">
-        <img src="/img/5f63f9045542831e90db1de9-pjymdghx.webp" alt="Artvin Coğrafi Harita" style="width:100%;border-radius:8px;border:1px solid rgba(255,255,255,.1);margin-bottom:.75rem">
+        <a href="/artvin-harita.html" style="display:block;margin-bottom:.75rem" aria-label="Artvin ilçe haritası, interaktif haritayı aç"><img loading="lazy" decoding="async" src="/img/artvin-ilce-haritasi.webp" width="1200" height="1000" alt="Artvin ilçe haritası: Merkez, Ardanuç, Arhavi, Borçka, Hopa, Kemalpaşa, Murgul, Şavşat ve Yusufeli" style="display:block;width:100%;height:auto;border-radius:8px;border:1px solid rgba(255,255,255,.1)"></a>
+        <a href="/artvin-harita.html" style="display:block;margin-bottom:.75rem" aria-label="Türkiye haritasında Artvin, interaktif haritayı aç"><img loading="lazy" decoding="async" src="/img/artvin-turkiye-haritasi-konum.webp" width="1200" height="630" alt="Türkiye haritasında Artvin: Doğu Karadeniz, Gürcistan sınırı" style="display:block;width:100%;height:auto;border-radius:8px;border:1px solid rgba(255,255,255,.1)"></a>
         <!-- KOORDİNATLAR -->
         <div style="background:rgba(99,102,241,.15);border:1px solid rgba(61,219,138,.18);padding:.9rem 1.1rem;border-radius:6px">
           <div style="font-size:.58rem;font-weight:700;letter-spacing:.14em;text-transform:uppercase;color:var(--vivid);margin-bottom:.6rem">📍 Coğrafi Koordinatlar</div>

diff --git a/sw.js b/sw.js
@@ -7,7 +7,7 @@ try {
   firebase.messaging(); // bildirimi gösterme ve tıklayınca sayfayı açma işini SDK yapar
 } catch (e) { /* bildirim altyapısı yüklenemezse site normal çalışmaya devam eder */ }
 
-const CACHE_NAME = 'artvinrehber-v69';
+const CACHE_NAME = 'artvinrehber-v70';
 const URLS = [
   '/',
   '/index.html',
